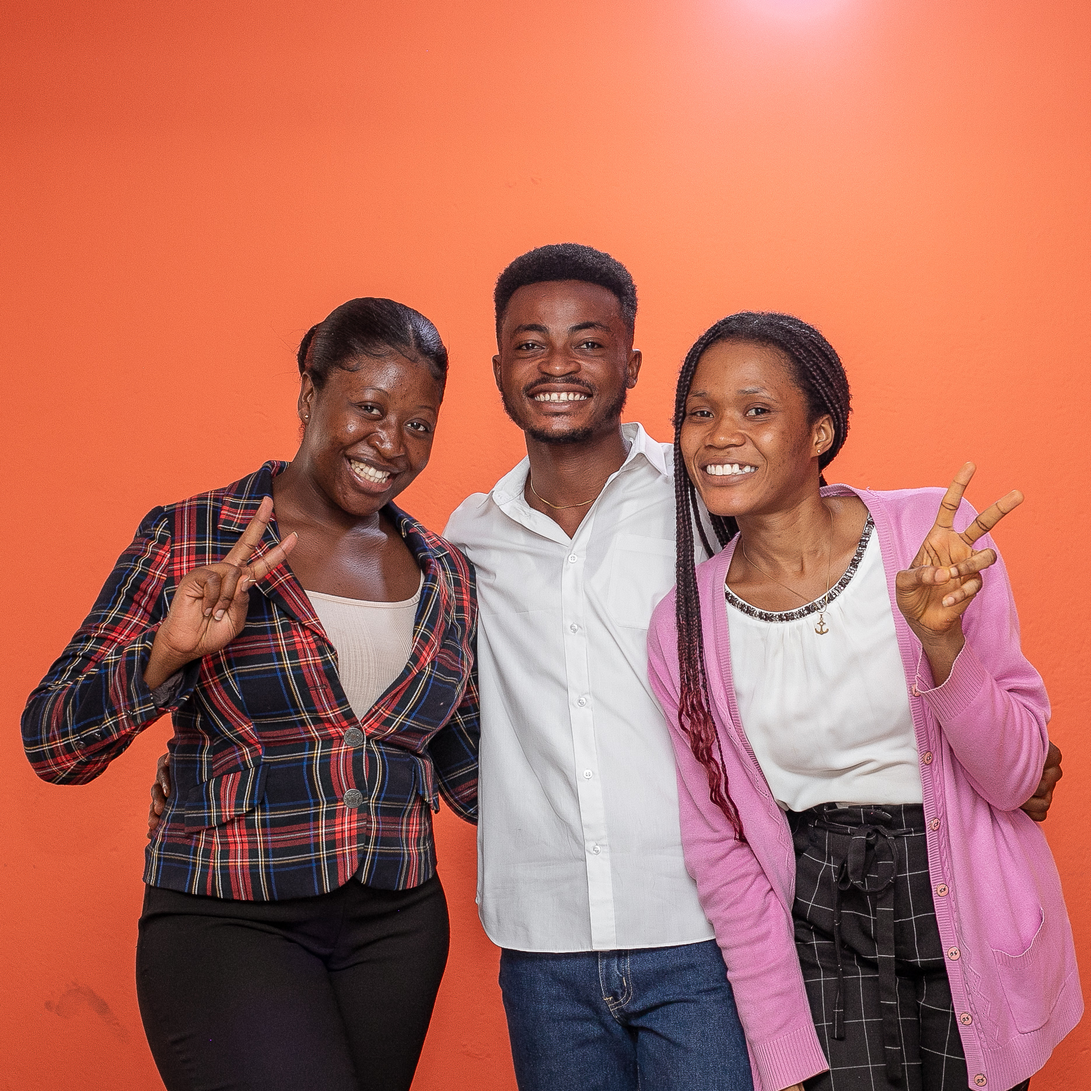
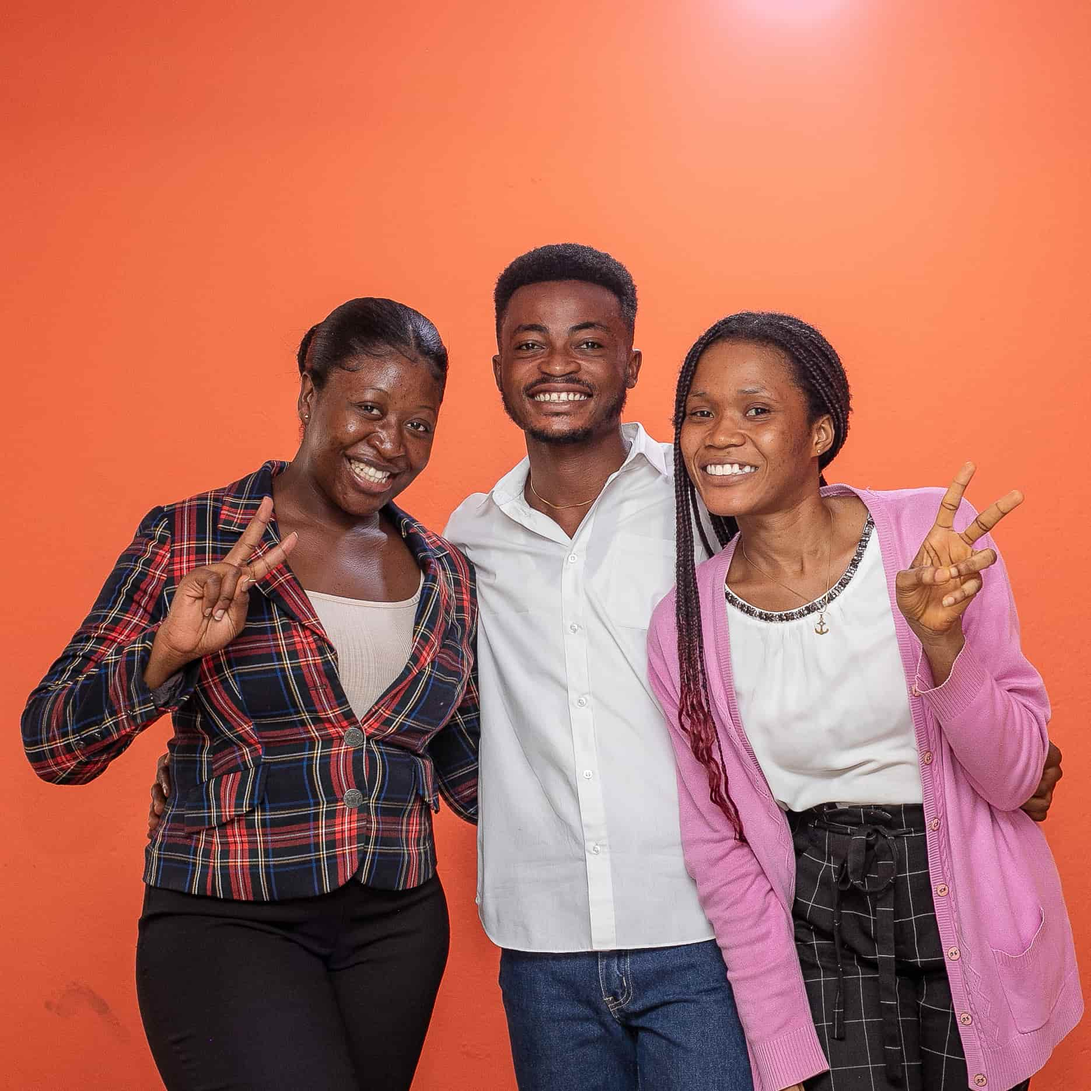
Worked on Resizing

diff --git a/src/components/choose.jsx b/src/components/choose.jsx
@@ -6,7 +6,7 @@ import { choose, choosedetails } from './utils';
 
 const WhyChooseUs = () => {
   return (
-    <section className='relative xl:h-screen lg:h-screen h-full w-full font-quicksand  gap-2 bg-white grid lg:grid-cols-2 lg:pb-48 pb-48 pl-6 pr-6 pt-14'>
+    <section className='relative xl:h-screen lg:h-screen xl:pr-32 xl:pl-32 xl:mt-12 h-full w-full font-quicksand gap-2 bg-white grid lg:grid-cols-2 grid-cols-1 lg:pb-48 pb-48 pl-6 pr-6 pt-14'>
       <div >
         <h1 className="max-w-[10rem] -mt-6 font-bold lg:text-lg text-sm">Why Jesi</h1>
         <p className='lg:mt-14 mt-8 font-bold lg:text-4xl text-2xl'>Grow Your Skills, Define Your Bright Future</p>
@@ -35,7 +35,7 @@ const WhyChooseUs = () => {
         </div>
       </div>
 
-      <div className='grid lg:grid-cols-2 mt-12'>
+      <div className='lg:flex lg:justify-between mt-10 '>
         <div className=''>
           {choosedetails.map((item, index) => (
             <div key={index} className="m-12">
@@ -47,7 +47,7 @@ const WhyChooseUs = () => {
           ))}
         </div>
         <img
-          className='xl:-ml-16 lg:-ml-16 object-center'
+          className='rounded-lg max-w-[80%] max-h-[80%] object-contain'
           src={Choose}
         />
       </div>

diff --git a/src/components/about.jsx b/src/components/about.jsx
@@ -39,13 +39,34 @@ const About = () => {
                 </div>
             </div>
 
-            {/* Right */}
-            <div className="items-center justify-center object-center relative z-10 lg:-mt-12 mt-4 md:pb-[4rem]">
-                <img src={About1} className='lg:mt-12 lg:ml-[7rem] ml-10 object-cover h-[16rem] ' />
-                <img src={About2} className='lg:ml-[3rem] lg:mt-2 mt-1 object-cover h-[20rem]'  />
+            {/*  mt-4 md:pb-[4rem] */}
+            <div className="items-center grid lg:grid-cols-2 object-center relative z-10 lg:-mt-48">
+                {imgs.map((item, index) => (
+                    <div key={index} className="p-3 flex items-center justify-center ">
+                        <img
+                            alt='Image'
+                            src={item.ImgSRC}
+                            className=" object-fill rounded-lg max-w-[80%] max-h-[80%]"
+                        />
+                    </div>
+                ))}
+
             </div>
         </div>
     );
 };
 
 export default About;
+
+
+export const imgs = [
+    {
+        id: 1,
+        ImgSRC: About2,
+    },
+    {
+        id: 2,
+        ImgSRC: About2,
+    },
+
+]

diff --git a/src/components/landing.jsx b/src/components/landing.jsx
@@ -62,7 +62,7 @@ const LandingPage = () => {
             <div className="flex items-center justify-center bounce lg:mt-32 mt-8 ">
                 <img
                     src={LandingImage}
-                    className='rounded-full md:h-[25rem] md:w-[25rem] 2xl:h-[35rem] 2xl:w-[35rem] object-cover '
+                    className='rounded-full h-[18rem] w-[18rem] md:h-[30rem] md:w-[30rem] 2xl:h-[35rem] 2xl:w-[35rem] object-cover '
                 />
             </div>
         </div>
